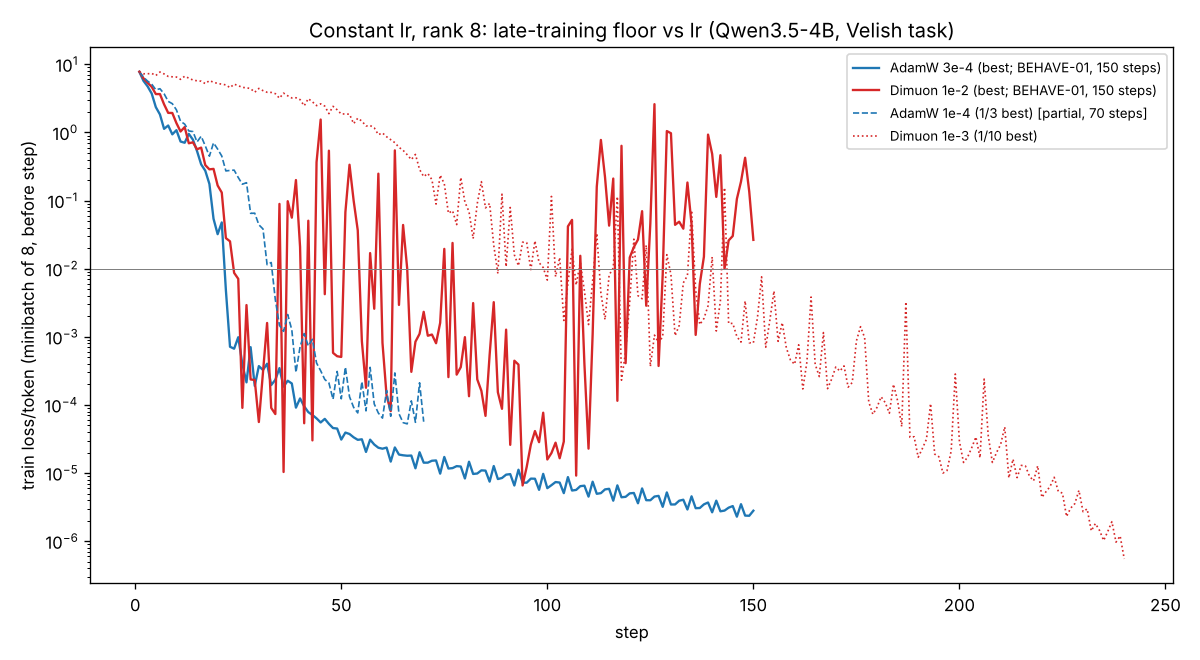
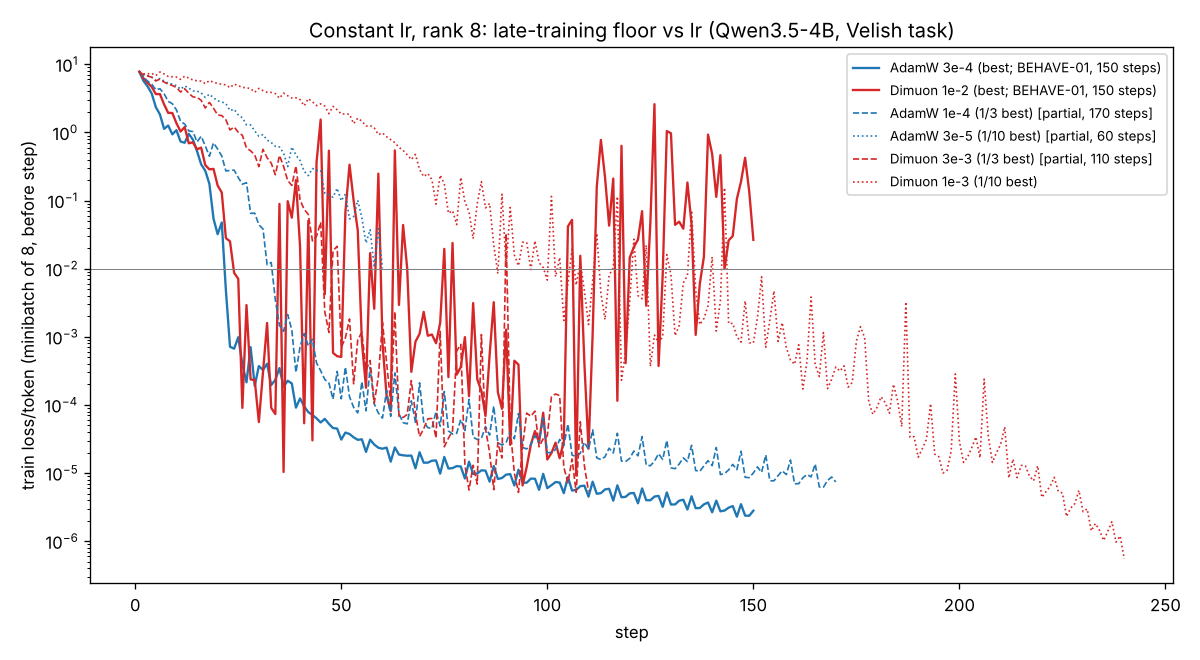
dimuon: BEHAVE-02 progress (unreviewed)
Claude-Session: https://claude.ai/code/session_01Tx1Y4SCWqqNudNQBMJGti9

diff --git a/dimuon/experiments.md b/dimuon/experiments.md
@@ -1101,3 +1101,69 @@ no files written except losses.
 `bh_c_stats.py`; `runs/BH/{A,B,R,C}_*.json` (per-step train loss, held-out every 10, s/step, model_id),
 `summary.json`, `blockC_stats.json`, `blockA.log`, `blockBC.log`; `figures/bh_curves.png`, `bh_lr.png`,
 `bh_blockC.png`.
+
+## BEHAVE-02 — does Dimuon's constant-lr floor persist below its best lr? — 2026-11-14 (measurement agent; UNREVIEWED)
+
+**Question.** BEHAVE-01 block C: at constant lr Dimuon 1e-2 (its best) ends on a noisy floor (late median 0.023), AdamW
+3e-4 (its best) settles to 5e-6, but AdamW at 1e-3 also shows a floor. Fixed-step account: Dimuon's per-tensor update
+norm is fixed, so it cannot settle at constant lr; well below its best lr it still sits on a floor (lower, but well
+above AdamW and not decreasing). Stability-edge account: Dimuon's best lr is simply nearer its stability edge; well
+below it Dimuon settles like AdamW.
+
+**Setup.** Identical to BEHAVE-01 (same model, Velish data, split seed 1234, fixed minibatch order, LoRA seed 0, rank 8,
+attn+MLP), constant lr, 240 steps planned, held-out every 20. `pipeline/bh2_blockD.py`; `bh_lib.py` gained a
+`data_seed` argument (0 = BEHAVE-01 behaviour, unchanged) and now writes the json every 10 steps. Stats:
+`pipeline/bh2_analyze.py` → `runs/BH/behave02_stats.json`, figure `figures/bh_floor.png`. Last 60 = the last 60
+steps the run actually reached.
+
+**Consistency check.** First 60 steps against block A at the same lr: mean train loss AdamW 1e-4 0.931 vs 0.943,
+Dimuon 1e-3 4.144 vs 4.147 (within the 6% repeat noise; not bit-identical, as before).
+
+**Service throughput was the binding constraint.** Steps took 4 s for some clients and 30–260 s for others. Attempt 1
+(00:34) gave Dimuon 1e-3 a fast lane (240 steps at 6.3 s/step); the other three stalled (one waited >13 min on its
+step-0 eval). At 01:08 I killed and relaunched those three with fresh clients (partials kept in
+`runs/BH/D_attempt1_partial/`). They still ran at ~30–100 s/step and were stopped at 02:47 by the deadline.
+**Only Dimuon 1e-3 completed 240 steps.**
+
+| run | steps reached | first step < 0.01 | last-60 window | median | max | frac > 0.01 | trend (median) |
+|---|---|---|---|---|---|---|---|
+| Dimuon 1e-3 (1/10 best) | **240 (done)** | 88 | 181–240 | **1.4e-5** | 3.3e-3 | **0.00** | 121–180: 1.05e-3 → 181–240: 1.4e-5 (falling) |
+| Dimuon 3e-3 (1/3 best) | 110 (partial) | 46 | 51–110 | 6.3e-5 | 0.033 | 0.02 | 51–80: 1.6e-4 → 81–110: 2.5e-5 (falling) |
+| AdamW 1e-4 (1/3 best) | 170 (partial) | 34 | 111–170 | 1.3e-5 | 4.3e-5 | 0.00 | 111–140: 1.6e-5 → 141–170: 9.5e-6 (falling) |
+| AdamW 3e-5 (1/10 best) | 60 (partial) | not reached | 1–60 | 0.90 | 7.8 | 1.00 | not converged — no reading |
+| *ref.* AdamW 3e-4 const (BEHAVE-01 C) | 150 | 22 | 91–150 | 4.6e-6 | 1.1e-5 | 0.00 | |
+| *ref.* Dimuon 1e-2 const (BEHAVE-01 C) | 150 | 24 | 91–150 | 0.023 | 2.6 | 0.57 | |
+
+Held-out at the last eval: Dimuon 1e-3 0.0013 (step 240), Dimuon 3e-3 0.0018 (step 100), AdamW 1e-4 1.1e-4 (step 160),
+AdamW 3e-5 0.21 (step 60). Last 10 train losses of Dimuon 1e-3 are ~5e-7 to 1.2e-6.
+
+**Matched window for the partial Dimuon 3e-3 run.** Dimuon 1e-2's floor in BEHAVE-01 developed late. Over steps
+61–90 its median was 9e-4, and over 51–110 it was 4.9e-4 with max 0.55 and 22% of steps above 0.01. Dimuon 3e-3 over
+the same 51–110 window has median 6.3e-5, max 0.033 and 2% of steps above 0.01. AdamW 1e-3 over 51–110 has median
+0.042 and 77% of steps above 0.01. So 3e-3 is already much quieter than 1e-2 in the same window, but 110 steps cannot
+rule out a floor that appears later.
+
+**Verdict: stability-edge account supported (one seed, one fully completed Dimuon run).** Dimuon at 1/10 of its best
+lr converges (below 0.01 at step 88) and then keeps falling: median 1.05e-3 over steps 121–180 and 1.4e-5 over
+181–240, never above 0.01 in the last 60 steps. That is within ~3× of AdamW at 1/3 of its best lr (1.3e-5 over
+111–170) and of the same order as AdamW at its best (4.6e-6). The fixed-step account predicted a floor well above
+AdamW's that stops decreasing; at lr 1e-3 neither happens. A floor that scales with lr may still exist below these
+values. With a fixed update norm the attainable loss should fall with lr, and 240 steps at 1e-3 cannot separate "no
+floor" from "floor below ~1e-5". So what is refuted is the floor as an explanation of the 0.023 seen at 1e-2, not
+fixed-norm steps as such. Dimuon 3e-3 (partial) points the same way.
+
+**Caveats.** One seed, one data order, one task that saturates. Three of four runs are partial because of service
+throughput: AdamW 3e-5 did not converge in its 60 steps, so it gives no reading, and Dimuon 3e-3 stopped at 110 of 240.
+The "best-lr" comparison mixes a done Dimuon run with a partial AdamW run (170 steps). The Dimuon 1e-3 curve shows
+some isolated late spikes (max 3.3e-3); these are small next to 1e-2's 2.6.
+**Block E (seed-1 replication of the lr ratio) was not run**: there was no time once block D throughput collapsed.
+Code is ready (`pipeline/bh2_blockE.py`; `data_seed=1` gives split seed 1235 with 3/16 held-out overlap, shuffled
+minibatch order, LoRA seed 1).
+
+**Usage.** 7 training clients (4 in attempt 1, 3 relaunched), about 590 forward_backward + optim_step calls
+(240 + 60 + 10 attempt-1 partials, then 170 + 110 + 60 relaunched, minus a few in flight at the kill), about 35 forward
+evals. No save_weights, save_state or export calls; losses only.
+
+**Files.** `runs/BH/D_*.json`, `runs/BH/D_attempt1_partial/`, `runs/BH/blockD.log`, `runs/BH/behave02_stats.json`,
+`figures/bh_floor.png`, `pipeline/bh2_blockD.py`, `bh2_blockE.py`, `bh2_analyze.py`, `bh_lib.py` (data_seed + write
+every 10 steps).
